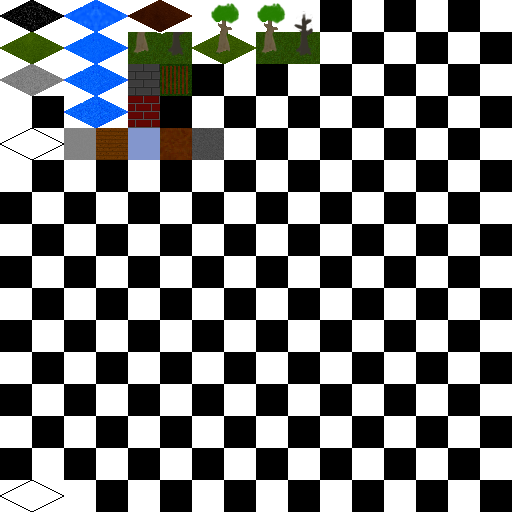
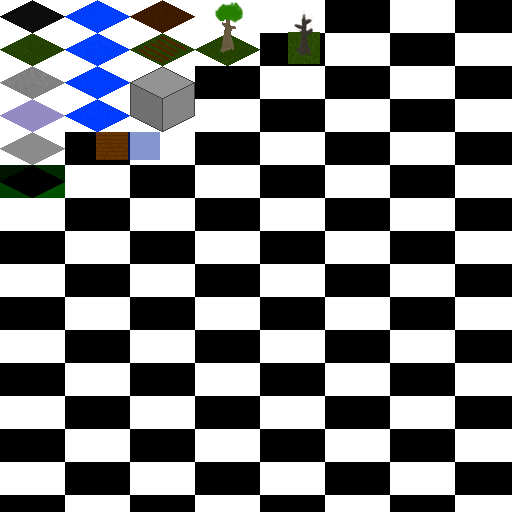
Working isometric

diff --git a/src/com/adavieslyons/util/map/Map.java b/src/com/adavieslyons/util/map/Map.java
@@ -57,6 +57,7 @@ public class Map {
 	Image fogOfWarTexture;
 	Image fogOfWarRevealedTexture;
 	Image mapBorderTexture;
+	Image isoDistinguishTexture;
 	Image minimapImage;
 	TileSelectorGUI tsGUI;
 	ImageGUI minimapBackgroundGUI;
@@ -139,9 +140,8 @@ public class Map {
 	public void renderPostEntities(GameContainer gc, Graphics graphics)
 			throws SlickException {
 		if (!editing) {
-			Vector2i screenTL = screenCoordinatesToTileCoordinates(0, 0);
-			Vector2i screenBR = screenCoordinatesToTileCoordinates(
-					gc.getWidth(), gc.getHeight());
+			Vector2i screenTL = new Vector2i(0, 0);//screenCoordinatesToTileCoordinates(0, 0);
+			Vector2i screenBR = new Vector2i(layers[0].tiles[0].length, layers[0].tiles.length);//screenCoordinatesToTileCoordinates(gc.getWidth(), gc.getHeight());
 
 			screenTL.add(new Vector2i(2, 2));
 			screenBR.add(new Vector2i(1, 1));
@@ -157,8 +157,7 @@ public class Map {
 
 			for (int y = screenTL.getY(); y < screenBR.getY(); y++) {
 				for (int x = screenTL.getX(); x < screenBR.getX(); x++) {
-					Vector2i center = entityManager.getPlayer()
-							.getPosition();
+					Vector2i center = entityManager.getPlayer().getPosition();
 					Vector2i renderPosition = tileCoordinatesToGameCoordinates(
 							x, y);
 					if (center.distance(new Vector2i(x, y)) <= entityManager
@@ -174,15 +173,43 @@ public class Map {
 				}
 			}
 		}
-		
+
 		minimapBackgroundGUI.render(gc, graphics);
+	}
+	
+	public boolean areEntitiesVisible(Vector2i position) {
+		return (position.distance(entityManager.getPlayer().getPosition()) <= entityManager
+				.getPlayer().getFieldOfView());
+
 	}
 
 	// SCREEN => TILE
 	public Vector2i screenCoordinatesToTileCoordinates(int x, int y) {
-		return new Vector2i((int) Math.floor((x - offset.getX())
-				/ Game.TILE_SIZE_X), (int) Math.floor((y - offset.getY())
-				/ Game.TILE_SIZE_Y));
+		Vector2i noOffset = new Vector2i(x, y);
+		
+		int tCoordX = noOffset.getX() / Game.TILE_SIZE_X + noOffset.getY()
+				/ Game.TILE_SIZE_Y;
+		int tCoordY = -(noOffset.getX() / Game.TILE_SIZE_X - noOffset.getY()
+				/ Game.TILE_SIZE_Y);
+
+		// Check if we need to move across depending on diagonal things
+		int xRel = x % Game.TILE_SIZE_X + 1;
+		int yRel = y % Game.TILE_SIZE_Y + 1;
+		System.out.println("ISO Distinguishing Colour (" + xRel + ", " + yRel + "): " + isoDistinguishTexture.getColor(xRel, yRel).getGreen());
+		switch (isoDistinguishTexture.getColor(xRel, yRel).getGreen()) {
+			case 0:
+				return new Vector2i(tCoordX, tCoordY);
+			case 20:
+				return new Vector2i(tCoordX - 1, tCoordY);
+			case 40:
+				return new Vector2i(tCoordX, tCoordY - 1);
+			case 60:
+				return new Vector2i(tCoordX, tCoordY + 1);
+			case 80:
+				return new Vector2i(tCoordX + 1, tCoordY);
+		}
+
+		return new Vector2i(tCoordX, tCoordY);
 	}
 
 	// SCREEN => TILE
@@ -193,15 +220,11 @@ public class Map {
 
 	// TILE => GAME
 	public Vector2i tileCoordinatesToGameCoordinates(int x, int y) {
-		// Boring ortho
-		//return new Vector2i(x * Game.TILE_SIZE + offset.getX(), y
-		//		* Game.TILE_SIZE + offset.getY());
-		
-		// Weyy isometric
 		float xP = x;
 		float yP = y;
-		return new Vector2i((int) ((xP * 0.5 - yP * 0.5) * Game.TILE_SIZE_X), 
-							(int) ((yP * 0.5 + xP * 0.5) * Game.TILE_SIZE_Y));
+
+		return new Vector2i((int) ((xP * 0.5 - yP * 0.5) * Game.TILE_SIZE_X),
+				(int) ((yP * 0.5 + xP * 0.5) * Game.TILE_SIZE_Y));
 	}
 
 	// TILE => GAME
@@ -253,12 +276,14 @@ public class Map {
 		layers[0] = new MapLayer(mapTileData, this);
 
 		// TODO: Duplicate code across this method & load - refactor to fix
-		fogOfWarTexture = SpriteSheet.getSpriteSheet(0).getSubImage(0, 0,
-				Game.TILE_SIZE_X, Game.TILE_SIZE_Y);
-		fogOfWarRevealedTexture = SpriteSheet.getSpriteSheet(0).getSubImage(0,
-				64, Game.TILE_SIZE_X, Game.TILE_SIZE_Y);
-		mapBorderTexture = SpriteSheet.getSpriteSheet(0).getSubImage(0, 32,
-				Game.TILE_SIZE_X, Game.TILE_SIZE_Y);
+		/*
+		 * fogOfWarTexture = SpriteSheet.getSpriteSheet(0).getSubImage(0, 0,
+		 * Game.TILE_SIZE_X, Game.TILE_SIZE_Y); fogOfWarRevealedTexture =
+		 * SpriteSheet.getSpriteSheet(0).getSubImage(0, Game.TILE_SIZE_Y * 4,
+		 * Game.TILE_SIZE_X, Game.TILE_SIZE_Y); mapBorderTexture =
+		 * SpriteSheet.getSpriteSheet(0).getSubImage(0, Game.TILE_SIZE_Y * 4,
+		 * Game.TILE_SIZE_X, Game.TILE_SIZE_Y);
+		 */
 		fogOfWar = new boolean[getWidth()][getHeight()];
 		for (boolean row[] : fogOfWar)
 			Arrays.fill(row, true);
@@ -267,7 +292,7 @@ public class Map {
 		tsGUI = new TileSelectorGUI(gc, game);
 		// If we generated a new map, chances are we want to edit it.
 		this.setEditing(true);
-		
+
 		generateMinimapImage();
 		minimapBackgroundGUI = new ImageGUI(gc, game, 16, 16, minimapImage);
 	}
@@ -358,11 +383,17 @@ public class Map {
 		}
 
 		fogOfWarTexture = SpriteSheet.getSpriteSheet(0).getSubImage(0, 0,
-				Game.TILE_SIZE_X, Game.TILE_SIZE_Y);
+				Game.TILE_SIZE_X + 1, Game.TILE_SIZE_Y + 1);
 		fogOfWarRevealedTexture = SpriteSheet.getSpriteSheet(0).getSubImage(0,
-				64, Game.TILE_SIZE_X, Game.TILE_SIZE_Y);
-		mapBorderTexture = SpriteSheet.getSpriteSheet(0).getSubImage(0, 32,
-				Game.TILE_SIZE_X, Game.TILE_SIZE_Y);
+				(Game.TILE_SIZE_Y + 1) * 4, Game.TILE_SIZE_X + 1,
+				Game.TILE_SIZE_Y + 1);
+		mapBorderTexture = SpriteSheet.getSpriteSheet(0).getSubImage(0,
+				(Game.TILE_SIZE_Y + 1) * 4, Game.TILE_SIZE_X + 1,
+				Game.TILE_SIZE_Y + 1);
+		isoDistinguishTexture = SpriteSheet.getSpriteSheet(0).getSubImage(0,
+				(Game.TILE_SIZE_Y + 1) * 5, Game.TILE_SIZE_X + 1,
+				Game.TILE_SIZE_Y + 1);
+
 		fogOfWar = new boolean[getWidth()][getHeight()];
 		for (boolean row[] : fogOfWar)
 			Arrays.fill(row, true);
@@ -425,8 +456,8 @@ public class Map {
 	public void focusTile(Vector2i tile) {
 		// Take tile position, convert to screen position, and set it as offset
 		setOffset(new Vector2i(
-				-(tile.getX() * Game.TILE_SIZE_X - game.WIDTH / 2), -(tile.getY()
-						* Game.TILE_SIZE_Y - game.HEIGHT / 2)));
+				-(tile.getX() * Game.TILE_SIZE_X - game.WIDTH / 2),
+				-(tile.getY() * Game.TILE_SIZE_Y - game.HEIGHT / 2)));
 	}
 
 	public void setOffset(Vector2i offset) {

diff --git a/src/com/adavieslyons/orthorpg/gui/TileSelectorGUI.java b/src/com/adavieslyons/orthorpg/gui/TileSelectorGUI.java
@@ -4,6 +4,7 @@ import org.newdawn.slick.GameContainer;
 import org.newdawn.slick.Graphics;
 import org.newdawn.slick.SlickException;
 
+import com.adavieslyons.orthorpg.Game;
 import com.adavieslyons.orthorpg.gamestate.states.GameState;
 import com.adavieslyons.util.Vector2i;
 import com.adavieslyons.util.map.MapTile;
@@ -30,7 +31,7 @@ public class TileSelectorGUI extends GUIWindow {
 		for (MapTile tile : MapTile.getTiles())
 		{
 			graphics.drawImage(tile.getBasicTexture(), BW + 8 + x, BW + 8);
-			x += 32;
+			x += Game.TILE_SIZE_X;
 		}
 
 		graphics.copyArea(windowDynamicContent, 0, 0);
@@ -54,10 +55,10 @@ public class TileSelectorGUI extends GUIWindow {
 			
 			if (mouseCoords.getY() > windowRect.getY() + BW + 8 && mouseCoords.getY() < windowRect.getY() + BW + 8 + 32)
 			{
-				if (mouseCoords.getX() > windowRect.getX() + BW + 8 && mouseCoords.getX() < windowRect.getX() + BW + 8 + 32 * MapTile.getTiles().length)
+				if (mouseCoords.getX() > windowRect.getX() + BW + 8 && mouseCoords.getX() < windowRect.getX() + BW + 8 + Game.TILE_SIZE_X * MapTile.getTiles().length)
 				{
 					// Inside a tile
-					int tile = (int) Math.floor(mouseCoords.getX() - windowRect.getX() - BW - 8) / 32;
+					int tile = (int) Math.floor(mouseCoords.getX() - windowRect.getX() - BW - 8) / Game.TILE_SIZE_X;
 					selectedTile = tile;
 					tileSelected = true;
 				}

diff --git a/src/com/adavieslyons/util/map/MapLayer.java b/src/com/adavieslyons/util/map/MapLayer.java
@@ -32,9 +32,8 @@ public class MapLayer {
 	}
 
 	void render(GameContainer gc, Graphics graphics, int totalDelta, boolean renderOccupants) throws SlickException {
-		Vector2i screenTL = map.screenCoordinatesToTileCoordinates(0, 0);
-		Vector2i screenBR = map.screenCoordinatesToTileCoordinates(
-				gc.getWidth(), gc.getHeight());
+		Vector2i screenTL = new Vector2i(0, 0);//screenCoordinatesToTileCoordinates(0, 0);
+		Vector2i screenBR = new Vector2i(map.getWidth(), map.getHeight());//screenCoordinatesToTileCoordinates(gc.getWidth(), gc.getHeight());
 
 		screenTL.add(new Vector2i(1, 1));
 		screenBR.add(new Vector2i(2, 2));
@@ -66,7 +65,7 @@ public class MapLayer {
 						map.mapBorderTexture.draw(renderPosition.getX(),
 								renderPosition.getY());
 					
-					if (renderOccupants)
+					if (renderOccupants && map.areEntitiesVisible(new Vector2i(x, y)))
 						tile.renderOccupant(gc, graphics);
 				}
 			}

diff --git a/src/com/adavieslyons/util/map/MapTile.java b/src/com/adavieslyons/util/map/MapTile.java
@@ -85,8 +85,8 @@ public class MapTile {
 						.getAttribute("spritesheet"));
 				int xPos = Integer.parseInt(i_textureNode.getAttribute("xPos"));
 				int yPos = Integer.parseInt(i_textureNode.getAttribute("yPos"));
-				int width = Game.TILE_SIZE_X;
-				int height = Game.TILE_SIZE_Y;
+				int width = Game.TILE_SIZE_X + 1;
+				int height = Game.TILE_SIZE_Y + 1;
 				if (i_textureNode.hasAttribute("width"))
 					width = Integer.parseInt(i_textureNode.getAttribute("width"));
 				if (i_textureNode.hasAttribute("height"))
